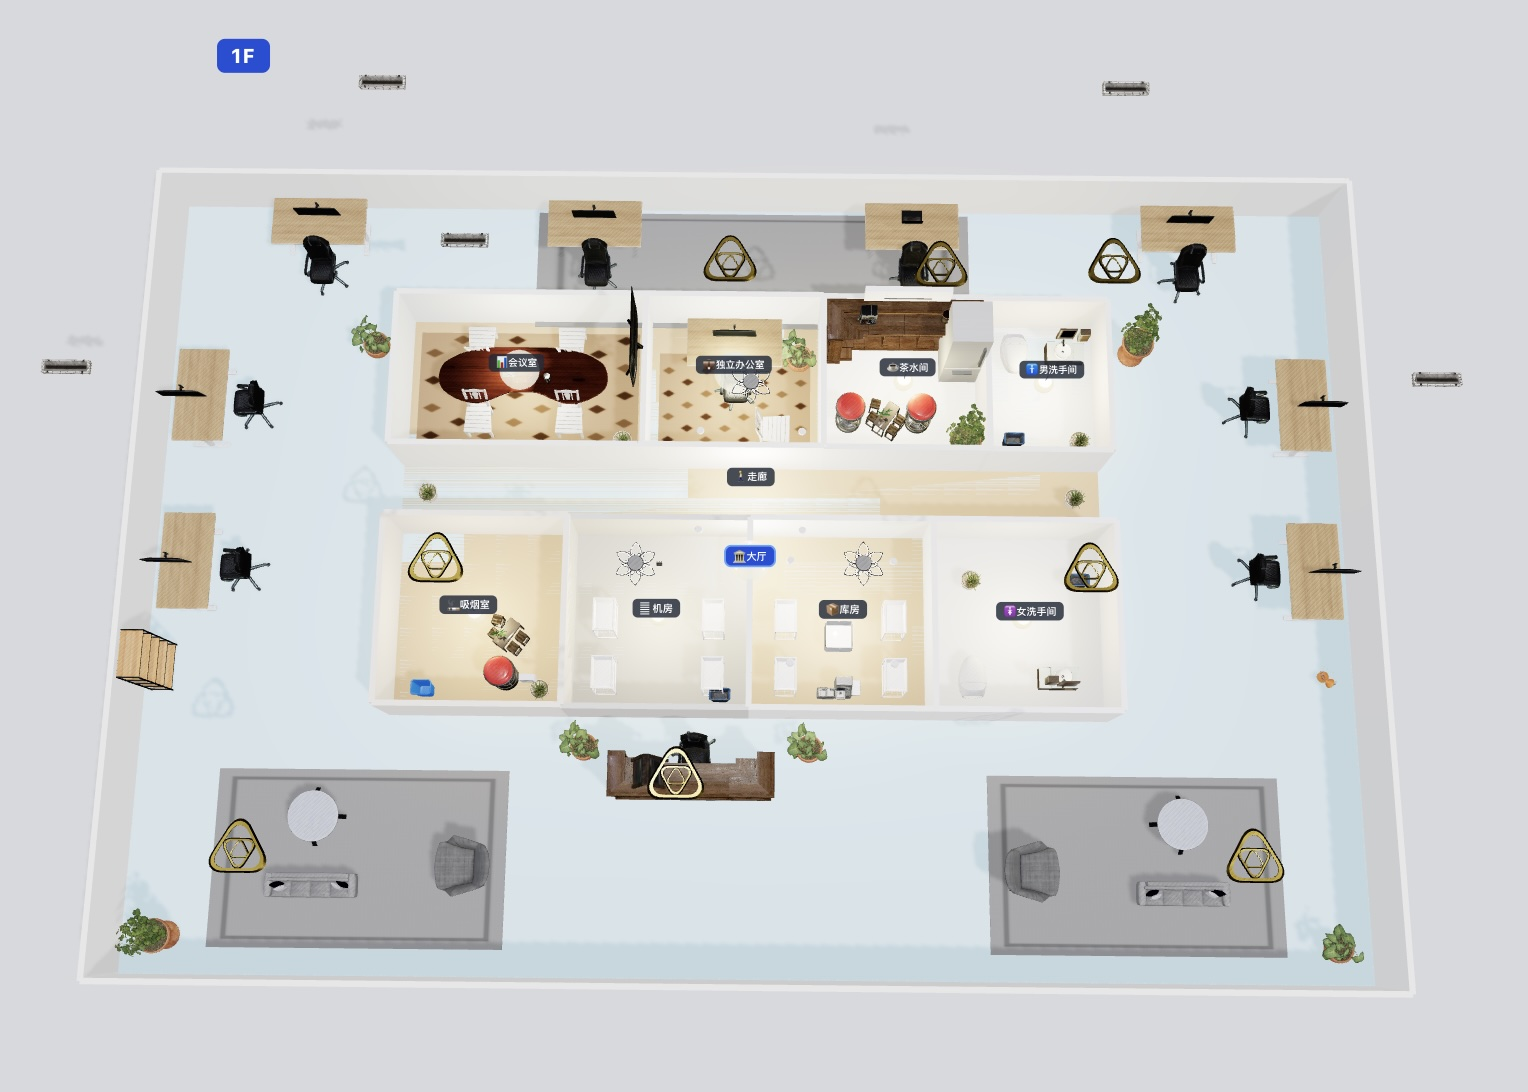
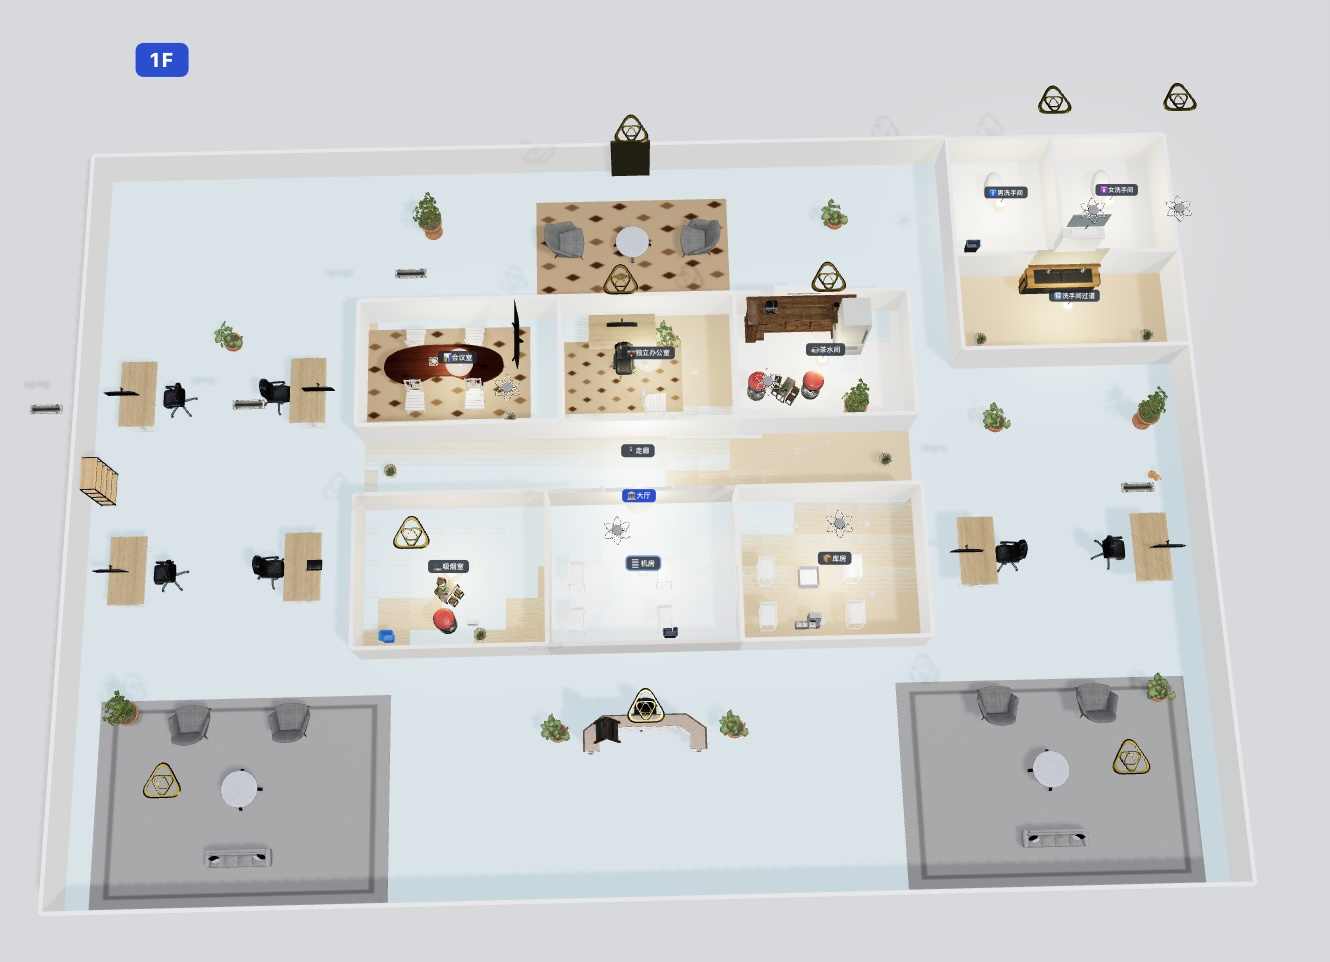
refactor(sets): 办公室洗手间移东北角落+敞开过道 · 办公室/餐厅盥洗台居中过道
- 办公室：洗手间从中央回字岛移到东北角落(贴 N/E 边墙)，前置敞开过道从大厅直接
  走进、过道口绿植隔断拉开距离；中央岛精简为 6 房(会议室/独立办公室/茶水间 +
  吸烟室/机房/库房)，各房相应放宽；E 条工位 4→2。
- 办公室 + 餐厅：洗手间过道加共用盥洗台(双盆台 + 镜柜 + 龙头)，居中放在男女厕之间、
  两厕门开在各自外侧；厕所隔间只留坐便。
- 缩略图 set-office/set-restaurant.jpg 更新为新布局。0 溢出，tsc/eslint 干净。

diff --git a/src/lib/projectTemplates.ts b/src/lib/projectTemplates.ts
@@ -1897,11 +1897,11 @@ const OFFICE_SET: ProjectTemplate = {
           name: "机房", icon: "🖧", doors: [{ wall: "N", pos: 140, len: 90 }] },
         { room: "closet", x: 1290, y: 730, width: 360, depth: 300,
           name: "库房", icon: "📦", doors: [{ wall: "N", pos: 140, len: 90 }] },
-        // ── 东北角落 洗手间区：男/女洗贴 N 边墙，过道 S 面敞开通大厅（可直接走进）──
+        // ── 东北角落 洗手间区：男/女洗贴 N 边墙、门开在各自外侧，盥洗台居中放过道 ──
         { room: "bathroom", x: 1750, y: 0, width: 220, depth: 260,
-          name: "男洗手间", icon: "🚹", doors: [{ wall: "S", pos: 110, len: 90 }] },
+          name: "男洗手间", icon: "🚹", doors: [{ wall: "S", pos: 55, len: 90 }] },
         { room: "bathroom2", x: 1970, y: 0, width: 230, depth: 260,
-          name: "女洗手间", icon: "🚺", doors: [{ wall: "S", pos: 115, len: 90 }] },
+          name: "女洗手间", icon: "🚺", doors: [{ wall: "S", pos: 175, len: 90 }] },
         { room: "bedroom", x: 1750, y: 260, width: 450, depth: 200,
           name: "洗手间过道", icon: "🚻", wallsHidden: ["S"] },
       ],
@@ -2013,12 +2013,11 @@ const OFFICE_SET: ProjectTemplate = {
         { furnitureId: "plant-monstera",       x: 235, z: 220 },
         { furnitureId: "lamp-ceiling-modern",  x: 135, z: 135, mountCeiling: true },
       ],
-      // ═══ 男洗手间 bathroom（220×260，东北角贴北墙，门朝南通过道）═══
+      // ═══ 男洗手间 bathroom（220×260，隔间只留坐便，盥洗在过道）═══
       bathroom: [
-        { furnitureId: "toilet-standard",     x: 55,  z: 55, rotation: 180 },
-        { furnitureId: "vanity-single-white", x: 175, z: 140, rotation: 270 },
-        { furnitureId: "decor-trash-bin",     x: 55,  z: 200 },
-        { furnitureId: "lamp-ceiling-modern", x: 125, z: 130, mountCeiling: true },
+        { furnitureId: "toilet-standard",     x: 110, z: 70, rotation: 180 },
+        { furnitureId: "decor-trash-bin",     x: 55,  z: 205 },
+        { furnitureId: "lamp-ceiling-modern", x: 110, z: 130, mountCeiling: true },
       ],
       // ═══ 吸烟室 custom2（280×300，门朝北 x100）═══
       custom2: [
@@ -2050,19 +2049,22 @@ const OFFICE_SET: ProjectTemplate = {
         { furnitureId: "storage-crate",      x: 140, z: 255 },
         { furnitureId: "lamp-ceiling-led",   x: 140, z: 175, mountCeiling: true },
       ],
-      // ═══ 女洗手间 bathroom2（230×260，东北角贴北墙，门朝南通过道）═══
+      // ═══ 女洗手间 bathroom2（230×260，隔间只留坐便，盥洗在过道）═══
       bathroom2: [
-        { furnitureId: "toilet-standard",     x: 55,  z: 55, rotation: 180 },
-        { furnitureId: "vanity-single-white", x: 180, z: 140, rotation: 270 },
-        { furnitureId: "plant-sansevieria",   x: 55,  z: 200 },
-        { furnitureId: "lamp-ceiling-modern", x: 125, z: 130, mountCeiling: true },
+        { furnitureId: "toilet-standard",     x: 115, z: 70, rotation: 180 },
+        { furnitureId: "plant-sansevieria",   x: 55,  z: 205 },
+        { furnitureId: "lamp-ceiling-modern", x: 115, z: 130, mountCeiling: true },
       ],
-      // ═══ 洗手间过道 bedroom（450×200 横条，S 面敞开通大厅）═══
+      // ═══ 洗手间过道 bedroom（450×200 横条，S 面敞开通大厅）：盥洗台居中(男女门在两侧) ═══
       bedroom: [
-        { furnitureId: "plant-sansevieria", x: 60,  z: 90 },
-        { furnitureId: "plant-sansevieria", x: 390, z: 90 },
-        { furnitureId: "lamp-ceiling-led",  x: 150, z: 90, mountCeiling: true },
-        { furnitureId: "lamp-ceiling-led",  x: 300, z: 90, mountCeiling: true },
+        { furnitureId: "vanity-double-marble", x: 225, z: 32, rotation: 0 },
+        { furnitureId: "mirror-cabinet",       x: 225, z: 10, elevationY: 140 },
+        { furnitureId: "faucet-basin",         x: 190, z: 30, elevationY: 82 },
+        { furnitureId: "faucet-basin",         x: 260, z: 30, elevationY: 82 },
+        { furnitureId: "plant-sansevieria",    x: 55,  z: 150 },
+        { furnitureId: "plant-sansevieria",    x: 395, z: 150 },
+        { furnitureId: "lamp-ceiling-led",     x: 150, z: 100, mountCeiling: true },
+        { furnitureId: "lamp-ceiling-led",     x: 300, z: 100, mountCeiling: true },
       ],
       // ═══ 走廊 hallway（1100×140，两端通大厅）═══
       hallway: [
@@ -2134,15 +2136,16 @@ const RESTAURANT_SET: ProjectTemplate = {
           name: "VIP 包间", icon: "👑", exteriorStyle: "concrete",
           doors: [{ wall: "S", pos: 280, len: 110 }] },
         // ── 东北角 洗手间区（与 VIP 间隔 x2020-2380 绿植缓冲）──
-        // 过道：矩形横条(y260-440)，S 面整面敞开通大堂→可直接走进；男女厕在其北侧贴边墙
+        // 过道：矩形横条(y260-440)，S 面整面敞开通大堂→可直接走进；男女厕门开在各自外侧，
+        // 盥洗台居中放过道；男女厕在其北侧贴边墙
         { room: "bedroom",  x: 2380, y: 260, width: 620, depth: 180,
           name: "洗手间过道", icon: "🚻", exteriorStyle: "concrete", wallsHidden: ["S"] },
         { room: "bathroom", x: 2380, y: 0, width: 310, depth: 260,
           name: "男洗手间", icon: "🚹", exteriorStyle: "concrete",
-          doors: [{ wall: "S", pos: 155, len: 100 }] },
+          doors: [{ wall: "S", pos: 65, len: 100 }] },
         { room: "bathroom2", x: 2690, y: 0, width: 310, depth: 260,
           name: "女洗手间", icon: "🚺", exteriorStyle: "concrete",
-          doors: [{ wall: "S", pos: 155, len: 100 }] },
+          doors: [{ wall: "S", pos: 245, len: 100 }] },
         // ── 大堂 多边形（floor 3000；兜西北后场块 x0-2020 + 东北洗手间块 x2380-3000，
         //     中间隔断缓冲 x2020-2380 通到北墙）；玻璃门面 + 南门 + 店招 ──
         { room: "living",   x: 0, y: 0, width: 3000, depth: 1020,
@@ -2365,28 +2368,30 @@ const RESTAURANT_SET: ProjectTemplate = {
         { furnitureId: "plant-monstera",   x: 490, z: 390 },
         { furnitureId: "lamp-pendant-saturno", x: 230, z: 205, mountCeiling: true },
       ],
-      // ═══ 洗手间过道 bedroom（620×180 横条，S 面整面敞开通大堂）═══
+      // ═══ 洗手间过道 bedroom（620×180 横条，S 面敞开）：盥洗台居中(男女门在两侧) ═══
       bedroom: [
-        { furnitureId: "plant-sansevieria",  x: 60,  z: 90 },
-        { furnitureId: "plant-sansevieria",  x: 560, z: 90 },
-        { furnitureId: "lamp-ceiling-led",   x: 220, z: 90, mountCeiling: true },
-        { furnitureId: "lamp-ceiling-led",   x: 420, z: 90, mountCeiling: true },
+        { furnitureId: "vanity-double-marble", x: 310, z: 32, rotation: 0 },
+        { furnitureId: "mirror-cabinet",       x: 310, z: 10, elevationY: 140 },
+        { furnitureId: "faucet-basin",         x: 275, z: 30, elevationY: 82 },
+        { furnitureId: "faucet-basin",         x: 345, z: 30, elevationY: 82 },
+        { furnitureId: "plant-sansevieria",    x: 70,  z: 130 },
+        { furnitureId: "plant-sansevieria",    x: 550, z: 130 },
+        { furnitureId: "lamp-ceiling-led",     x: 180, z: 100, mountCeiling: true },
+        { furnitureId: "lamp-ceiling-led",     x: 440, z: 100, mountCeiling: true },
       ],
-      // ═══ 男洗手间 bathroom（310×260，2 隔间贴北墙 + 洗手台，门朝南通过道）═══
+      // ═══ 男洗手间 bathroom（310×260，2 隔间贴北墙，盥洗在过道）═══
       bathroom: [
-        { furnitureId: "toilet-standard",     x: 90,  z: 55, rotation: 180 },
-        { furnitureId: "toilet-standard",     x: 200, z: 55, rotation: 180 },
-        { furnitureId: "vanity-single-white", x: 280, z: 140, rotation: 270 },
+        { furnitureId: "toilet-standard",     x: 120, z: 55, rotation: 180 },
+        { furnitureId: "toilet-standard",     x: 230, z: 55, rotation: 180 },
         { furnitureId: "decor-trash-bin",     x: 60,  z: 210 },
-        { furnitureId: "lamp-ceiling-modern", x: 160, z: 130, mountCeiling: true },
+        { furnitureId: "lamp-ceiling-modern", x: 170, z: 130, mountCeiling: true },
       ],
-      // ═══ 女洗手间 bathroom2（310×260，2 隔间贴北墙 + 洗手台，门朝南通过道）═══
+      // ═══ 女洗手间 bathroom2（310×260，2 隔间贴北墙，盥洗在过道）═══
       bathroom2: [
-        { furnitureId: "toilet-standard",     x: 90,  z: 55, rotation: 180 },
-        { furnitureId: "toilet-standard",     x: 200, z: 55, rotation: 180 },
-        { furnitureId: "vanity-single-white", x: 280, z: 140, rotation: 270 },
+        { furnitureId: "toilet-standard",     x: 120, z: 55, rotation: 180 },
+        { furnitureId: "toilet-standard",     x: 230, z: 55, rotation: 180 },
         { furnitureId: "plant-sansevieria",   x: 60,  z: 210 },
-        { furnitureId: "lamp-ceiling-modern", x: 160, z: 130, mountCeiling: true },
+        { furnitureId: "lamp-ceiling-modern", x: 170, z: 130, mountCeiling: true },
       ],
       // ═══ 露天座 hallway（3000×200 骑楼）：小圆桌 ×7 + 绿植 ═══
       hallway: [
